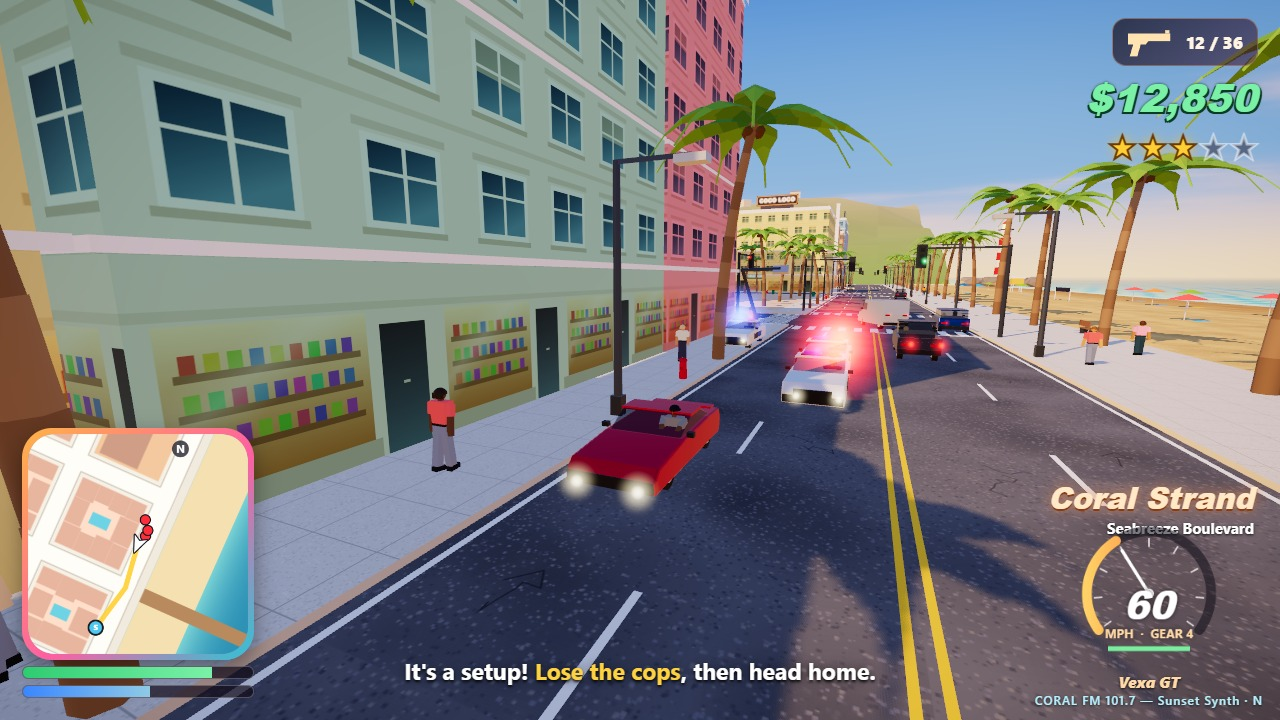
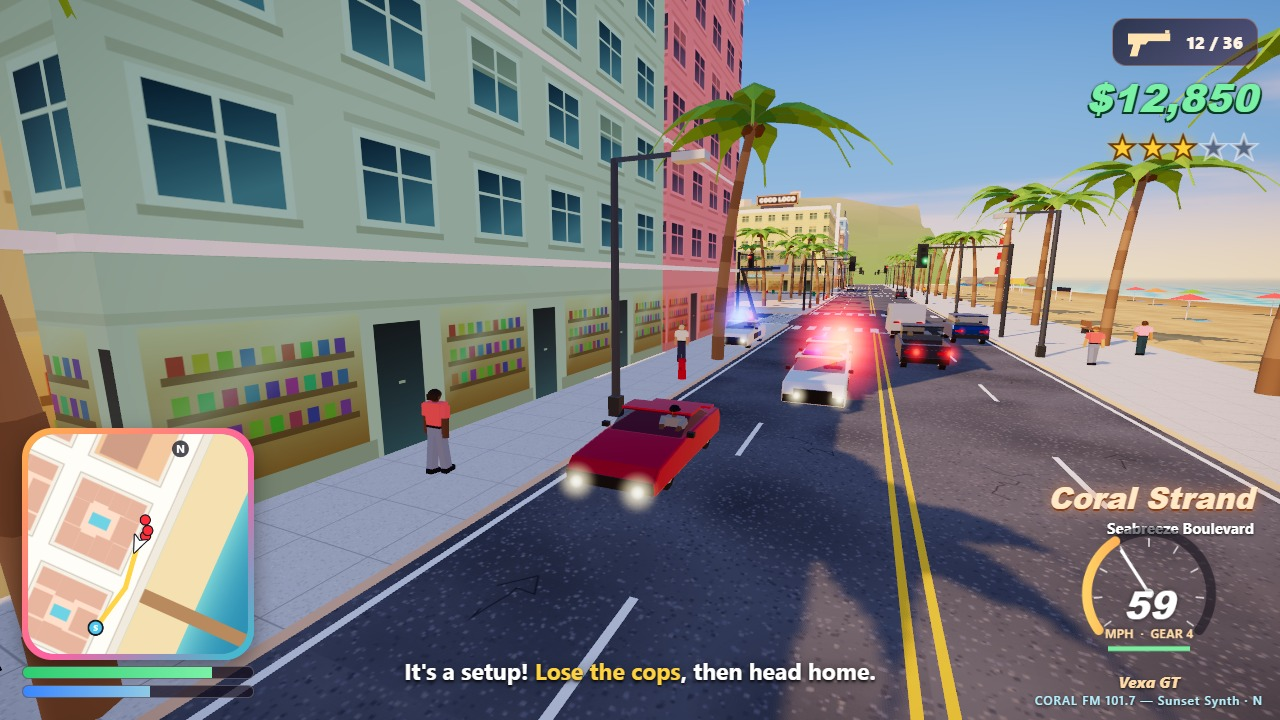
Traffic AI: path-projected steering, stop lines held at red, give way in junctions; diagnostics scripts

diff --git a/game/src/ai/trafficDriver.js b/game/src/ai/trafficDriver.js
@@ -37,7 +37,52 @@ export class TrafficDriver {
     this.node = to;
     this.lane = lane;
     this.waypoints = [];
+    this.last = { x: line.sx, z: line.sz };
     this.pushLaneEnd(from, to, lane);
+  }
+
+  /**
+   * The point `look` metres ahead along the planned path, measured from where the car
+   * projects onto it, so a car pushed off its lane steers back promptly.
+   */
+  pathPointAhead(look) {
+    const vehicle = this.vehicle;
+    const start = this.last ?? { x: vehicle.x, z: vehicle.z };
+    const first = this.waypoints[0];
+    const sx = first.x - start.x;
+    const sz = first.z - start.z;
+    const length = Math.hypot(sx, sz) || 1;
+    const along = Math.max(0, Math.min(length, ((vehicle.x - start.x) * sx + (vehicle.z - start.z) * sz) / length));
+    let remaining = look;
+    let ax = start.x + (sx / length) * along;
+    let az = start.z + (sz / length) * along;
+    const offTrack = Math.hypot(vehicle.x - ax, vehicle.z - az);
+    remaining = Math.max(2.5, look - offTrack * 0.6);
+    for (const point of this.waypoints) {
+      const dx = point.x - ax;
+      const dz = point.z - az;
+      const leg = Math.hypot(dx, dz);
+      if (leg >= remaining) return { x: ax + (dx / leg) * remaining, z: az + (dz / leg) * remaining, offTrack };
+      remaining -= leg;
+      ax = point.x;
+      az = point.z;
+    }
+    return { x: ax, z: az, offTrack };
+  }
+
+  /** True when another moving car is inside the junction box and not travelling our way. */
+  junctionBusy(world, junction) {
+    const node = this.network.nodes[junction];
+    const vehicle = this.vehicle;
+    const fx = Math.sin(vehicle.yaw);
+    const fz = Math.cos(vehicle.yaw);
+    for (const other of world.vehicles.list) {
+      if (other === vehicle || !other.active || other.speed < 1.5) continue;
+      if (Math.abs(other.x - node.x) > 8.5 || Math.abs(other.z - node.z) > 8.5) continue;
+      const dot = (other.vx * fx + other.vz * fz) / other.speed;
+      if (dot < 0.75) return true;
+    }
+    return false;
   }
 
   pushLaneEnd(from, to, lane) {
@@ -115,24 +160,21 @@ export class TrafficDriver {
     this.panic = Math.max(0, this.panic - dt);
     this.hornTimer = Math.max(0, this.hornTimer - dt);
     while (this.waypoints.length < 6) this.queueNext();
-    // Drop waypoints we reached or passed.
+    // Drop waypoints we reached or passed, remembering the last one as the segment start.
+    // A stop line only counts once actually crossed, or cars would creep through reds.
     while (this.waypoints.length > 1) {
       const point = this.waypoints[0];
       const dx = point.x - vehicle.x;
       const dz = point.z - vehicle.z;
       const ahead = dx * Math.sin(vehicle.yaw) + dz * Math.cos(vehicle.yaw);
-      if (dx * dx + dz * dz < ARRIVE * ARRIVE || ahead < -1) this.waypoints.shift();
-      else break;
+      const radius = point.stop ? 0.6 : ARRIVE;
+      if (dx * dx + dz * dz < radius * radius || ahead < (point.stop ? -0.3 : -1)) {
+        this.last = this.waypoints.shift();
+      } else break;
     }
     const speed = vehicle.forwardSpeed;
-    const look = 4.5 + Math.max(0, speed) * 0.45;
-    let target = this.waypoints[this.waypoints.length - 1];
-    for (const point of this.waypoints) {
-      if (Math.hypot(point.x - vehicle.x, point.z - vehicle.z) >= look) {
-        target = point;
-        break;
-      }
-    }
+    const look = 4 + Math.max(0, speed) * 0.42;
+    const target = this.pathPointAhead(look);
     const local = vehicle.worldToLocal(target.x, target.z);
     const distance = Math.max(1, Math.hypot(local.x, local.z));
     const axle = vehicle.spec.wheelBase * 2;
@@ -159,11 +201,14 @@ export class TrafficDriver {
         const stopDistance = Math.hypot(point.x - vehicle.x, point.z - vehicle.z);
         if (stopDistance > 40) break;
         const light = this.signals.state(point.stop.junction, point.stop.axis);
-        const mustStop = light === 'red' || (light === 'yellow' && stopDistance > 6);
+        let mustStop = light === 'red' || (light === 'yellow' && stopDistance > 6);
+        // On green, still give way to cars already crossing the junction.
+        if (!mustStop && stopDistance < 12 && this.junctionBusy(world, point.stop.junction)) mustStop = true;
         if (mustStop) wanted = Math.min(wanted, Math.max(0, (stopDistance - STOP_MARGIN) * 0.8));
         break;
       }
     }
+    if (target.offTrack > 2.5) wanted = Math.min(wanted, 7);
     const gap = this.scanAhead(world, 6 + Math.max(0, speed) * 1.4);
     if (gap < 30) wanted = Math.min(wanted, Math.max(0, (gap - 2.2) * 1.1));
     if (gap < 4 && speed < 1) {

diff --git a/tools/traffic-check.js b/tools/traffic-check.js
@@ -1,0 +1,33 @@
+// Traffic and crowd health check (take-screenshots.mjs --script): runs the city for a while
+// around a junction, then reports how traffic and walkers are doing and frames the junction.
+const g = window.__game;
+const wait = (ms) => new Promise((done) => setTimeout(done, ms));
+g.newGame();
+g.intro.finish();
+const hero = g.player.character;
+hero.x = 92;
+hero.z = 12;
+g.population.reset();
+const samples = { moving: 0, stopped: 0, waitingAtRed: 0, onSidewalk: 0 };
+for (let second = 0; second < 40; second += 1) {
+  g.simulate(1);
+  for (const v of g.population.traffic) {
+    if (!v.active || !v.ai) continue;
+    if (v.speed > 2) samples.moving += 1;
+    else samples.stopped += 1;
+    const onRoad = Math.min(...[-320, -240, -160, -80, 0, 80, 160, 240].map((x) => Math.abs(v.x - x))) < 7.5
+      || Math.min(...[-320, -240, -160, -80, 0, 80, 160, 240].map((z) => Math.abs(v.z - z))) < 7.5;
+    if (!onRoad) samples.onSidewalk += 1;
+  }
+}
+const wrecked = g.vehicles.list.filter((v) => v.destroyed).length;
+const damaged = g.population.traffic.filter((v) => v.healthShare < 0.9).length;
+const walkers = g.population.walkers.filter((w) => w.active);
+const crossing = walkers.filter((w) => w.brain && (w.brain.mode === 'cross' || w.brain.mode === 'wait')).length;
+const down = walkers.filter((w) => w.state === 'down' || w.state === 'dead').length;
+g.followCamera.override = { position: hero.y !== undefined ? new (g.camera.position.constructor)(118, 46, 44) : null, target: new (g.camera.position.constructor)(80, 0, 0), fov: 55 };
+g.state = 'title';
+document.getElementById('start-screen').classList.add('hidden');
+g.titleCamera.update = () => g.followCamera.override;
+await wait(600);
+return { samples, wrecked, damaged, traffic: g.population.traffic.length, walkers: walkers.length, crossing, down };

diff --git a/tools/traffic-debug.js b/tools/traffic-debug.js
@@ -1,0 +1,25 @@
+// Per-car traffic diagnostics (take-screenshots.mjs --script): where each AI car is relative to
+// the road grid, its speed, steering and next waypoint, after the city has run for a while.
+const g = window.__game;
+g.newGame();
+g.intro.finish();
+const hero = g.player.character;
+hero.x = 92;
+hero.z = 12;
+g.population.reset();
+const lines = [-320, -240, -160, -80, 0, 80, 160, 240];
+const offRoad = (v) => Math.min(...lines.map((x) => Math.abs(v.x - x))) > 7.5 && Math.min(...lines.map((z) => Math.abs(v.z - z))) > 7.5;
+const report = [];
+const track = new Map();
+for (let second = 0; second < 30; second += 1) {
+  g.simulate(1);
+  for (const v of g.population.traffic) {
+    if (!v.active || !v.ai) continue;
+    if (offRoad(v) && !track.has(v.id)) {
+      const w = v.ai.waypoints[0];
+      track.set(v.id, `t=${second}s ${v.type} at (${v.x.toFixed(1)}, ${v.z.toFixed(1)}) yaw ${v.yaw.toFixed(2)} speed ${v.speed.toFixed(1)} steer ${v.controls.steer.toFixed(2)} next (${w.x.toFixed(1)}, ${w.z.toFixed(1)}) wps ${v.ai.waypoints.length} health ${Math.round(v.health)} panic ${v.ai.panic.toFixed(1)}`);
+    }
+  }
+}
+for (const line of track.values()) report.push(line);
+return { offRoadCars: track.size, total: g.population.traffic.length, report: report.slice(0, 14) };

diff --git a/tools/signal-debug.js b/tools/signal-debug.js
@@ -1,0 +1,19 @@
+// Red-light probe (take-screenshots.mjs --script): for cars whose next stop line is red and
+// close, reports distance and speed, to see whether traffic waits at signals.
+const g = window.__game;
+g.newGame();
+g.intro.finish();
+g.population.reset();
+const rows = [];
+for (let tick = 0; tick < 60 && rows.length < 24; tick += 1) {
+  g.simulate(0.5);
+  for (const v of g.population.traffic) {
+    if (!v.ai || !v.active) continue;
+    const stop = v.ai.waypoints.find((p) => p.stop);
+    if (!stop) continue;
+    const d = Math.hypot(stop.x - v.x, stop.z - v.z);
+    const light = g.city.signals.state(stop.stop.junction, stop.stop.axis);
+    if (light === 'red' && d < 14) rows.push(`car ${v.id} d=${d.toFixed(1)} speed=${v.speed.toFixed(1)} panic=${v.ai.panic.toFixed(1)} throttle=${v.controls.throttle.toFixed(2)} brake=${v.controls.brake.toFixed(2)} hb=${v.controls.handbrake}`);
+  }
+}
+return { rows, time: g.city.signals.time.toFixed(1) };
